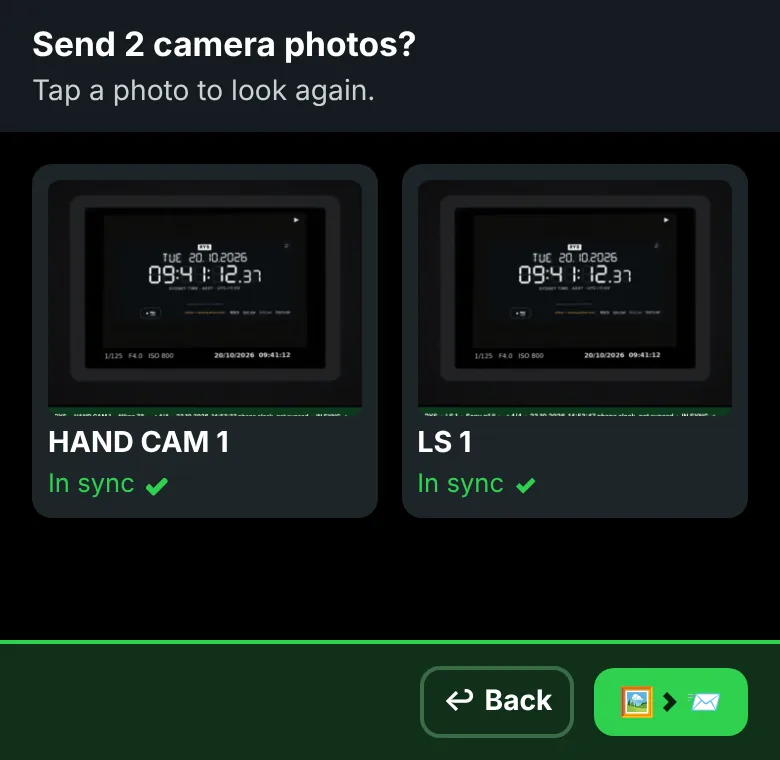
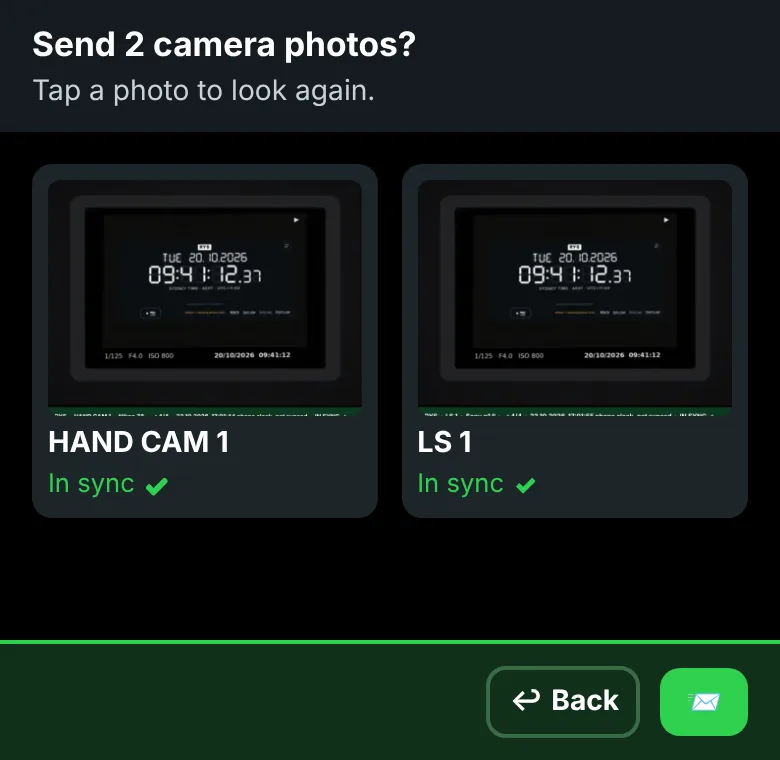
Final send button: 📨
Claude-Session: https://claude.ai/code/session_01PWvFJNTaft5vB7ZZnHn1Wn

Changed region(s): [[0.5231, 0.8776, 0.8615, 0.9684]]

diff --git a/index.html b/index.html
@@ -2,7 +2,7 @@
 <html lang="en">
 <head>
 <meta charset="utf-8">
-<meta name="app-ver" content="20261023043332">
+<meta name="app-ver" content="20261023060247">
 <meta name="viewport" content="width=device-width,initial-scale=1,viewport-fit=cover">
 <title>Camera check/Atomic Clock by RYS</title>
 <meta name="description" content="All in one app: camera settings, an atomic clock, camera photo sync and direct sending to your camera check groups.">
@@ -704,7 +704,7 @@ html:not(.land) .taphint{transform:translateY(calc(-1 * var(--boxh, 0px))); tran
     <li class="g-step"><div class="g-num">7</div><div class="g-body"><p>Play back the clock shot on the camera, tap <span class="gk g">📱→📷</span> and photograph the camera's screen.</p><img src="guide/7.webp?v=15" alt="" loading="lazy" width="390" height="626"></div></li>
     <li class="g-step"><div class="g-num">8</div><div class="g-body"><p>If the times match to the second, tap <span class="gk g">✓ Yes, in sync</span>. If not, fix the camera's clock and tap <b>📷 Retake</b>.</p><img src="guide/8.webp?v=15" alt="" loading="lazy" width="390" height="526"></div></li>
     <li class="g-step"><div class="g-num">9</div><div class="g-body"><p>Tap <span class="gk g">Next camera →</span> for the next camera's screen.</p><img src="guide/9.webp?v=15" alt="" loading="lazy" width="390" height="75"></div></li>
-    <li class="g-step"><div class="g-num">10</div><div class="g-body"><p>Tap <span class="gk g">🖼→📨</span>, then <span class="gk g">🖼→📨</span> again and pick your group chat.</p><img src="guide/10.webp?v=15" alt="" loading="lazy" width="390" height="380"></div></li>
+    <li class="g-step"><div class="g-num">10</div><div class="g-body"><p>Tap <span class="gk g">🖼→📨</span>, then <span class="gk g">📨</span> and pick your group chat.</p><img src="guide/10.webp?v=16" alt="" loading="lazy" width="390" height="380"></div></li>
     <li class="g-step"><div class="g-num">⤓</div><div class="g-body"><b>Install the app</b><p>
       · <b>iPhone</b> (Safari): tap <b>Share</b> □↑ (on newer iOS it's under <b>⋯</b>), then <b>Add to Home Screen</b> → <b>Add</b>.<br>
       · <b>Android</b> (Chrome): tap <b>⋮</b> top right, then <b>Add to home screen</b> → <b>Install</b>.</p></div></li>
@@ -2831,7 +2831,7 @@ function trNode(n){
       document.getElementById("sTitle").textContent = "Send " + n + " camera photo" + (n === 1 ? "" : "s") + "?";
       document.getElementById("sSub").textContent = "Tap a photo to look again." + (bad ? " " + bad + " not confirmed in sync." : "");
       warn.hidden = true;
-      sGo.textContent = "🖼→📨"; sGo.disabled = !n;
+      sGo.textContent = "📨"; sGo.disabled = !n;
     }
     sendView.hidden = false; sGo.focus();
   }
@@ -3119,7 +3119,7 @@ function trNode(n){
     <li class="g-step"><div class="g-num">7</div><div class="g-body"><p>Spiele die Aufnahme der Uhr an der Kamera ab, tippe auf <span class="gk g">📱→📷</span> und fotografiere das Kameradisplay.</p><img src="guide/de/7.webp?v=15" alt="" loading="lazy" width="390" height="626"></div></li>
     <li class="g-step"><div class="g-num">8</div><div class="g-body"><p>Stimmen die Zeiten auf die Sekunde überein, tippe auf <span class="gk g">✓ Ja, synchron</span>. Wenn nicht, stelle die Kamerauhr richtig und tippe auf <b>📷 Neu aufnehmen</b>.</p><img src="guide/de/8.webp?v=15" alt="" loading="lazy" width="390" height="526"></div></li>
     <li class="g-step"><div class="g-num">9</div><div class="g-body"><p>Tippe auf <span class="gk g">Nächste Kamera →</span> für das Display der nächsten Kamera.</p><img src="guide/de/9.webp?v=15" alt="" loading="lazy" width="390" height="75"></div></li>
-    <li class="g-step"><div class="g-num">10</div><div class="g-body"><p>Tippe auf <span class="gk g">🖼→📨</span>, dann nochmal auf <span class="gk g">🖼→📨</span> und wähle deinen Gruppenchat.</p><img src="guide/de/10.webp?v=15" alt="" loading="lazy" width="390" height="380"></div></li>
+    <li class="g-step"><div class="g-num">10</div><div class="g-body"><p>Tippe auf <span class="gk g">🖼→📨</span>, dann auf <span class="gk g">📨</span> und wähle deinen Gruppenchat.</p><img src="guide/de/10.webp?v=16" alt="" loading="lazy" width="390" height="380"></div></li>
     <li class="g-step"><div class="g-num">⤓</div><div class="g-body"><b>App installieren</b><p>
       · <b>iPhone</b> (Safari): Tippe auf <b>Teilen</b> □↑ (bei neuerem iOS unter <b>⋯</b>), dann <b>Zum Home-Bildschirm</b> → <b>Hinzufügen</b>.<br>
       · <b>Android</b> (Chrome): Tippe oben rechts auf <b>⋮</b>, dann <b>Zum Startbildschirm hinzufügen</b> → <b>Installieren</b>.</p></div></li>
